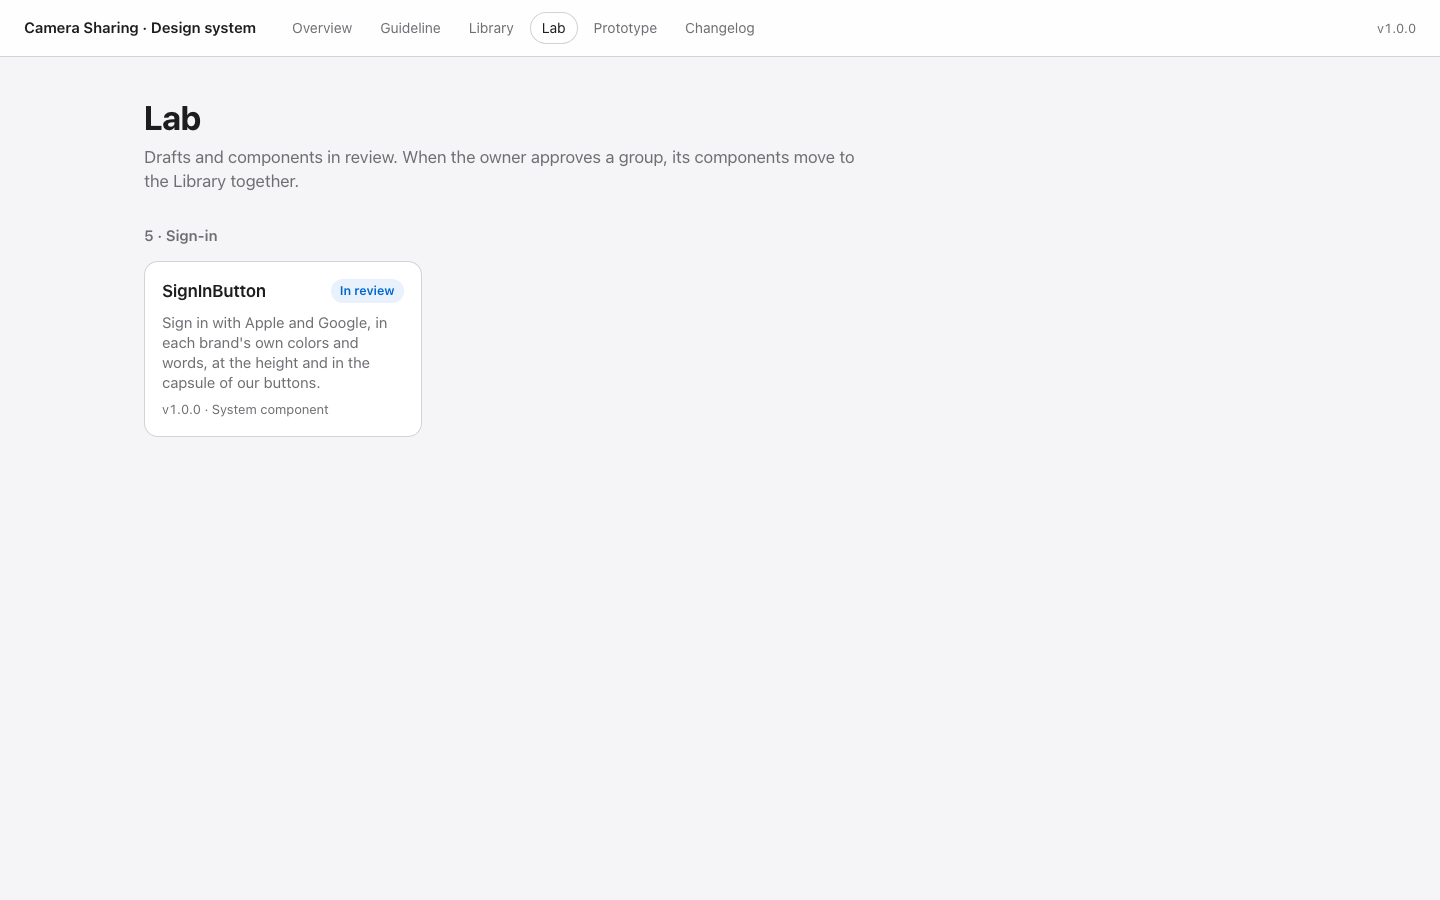
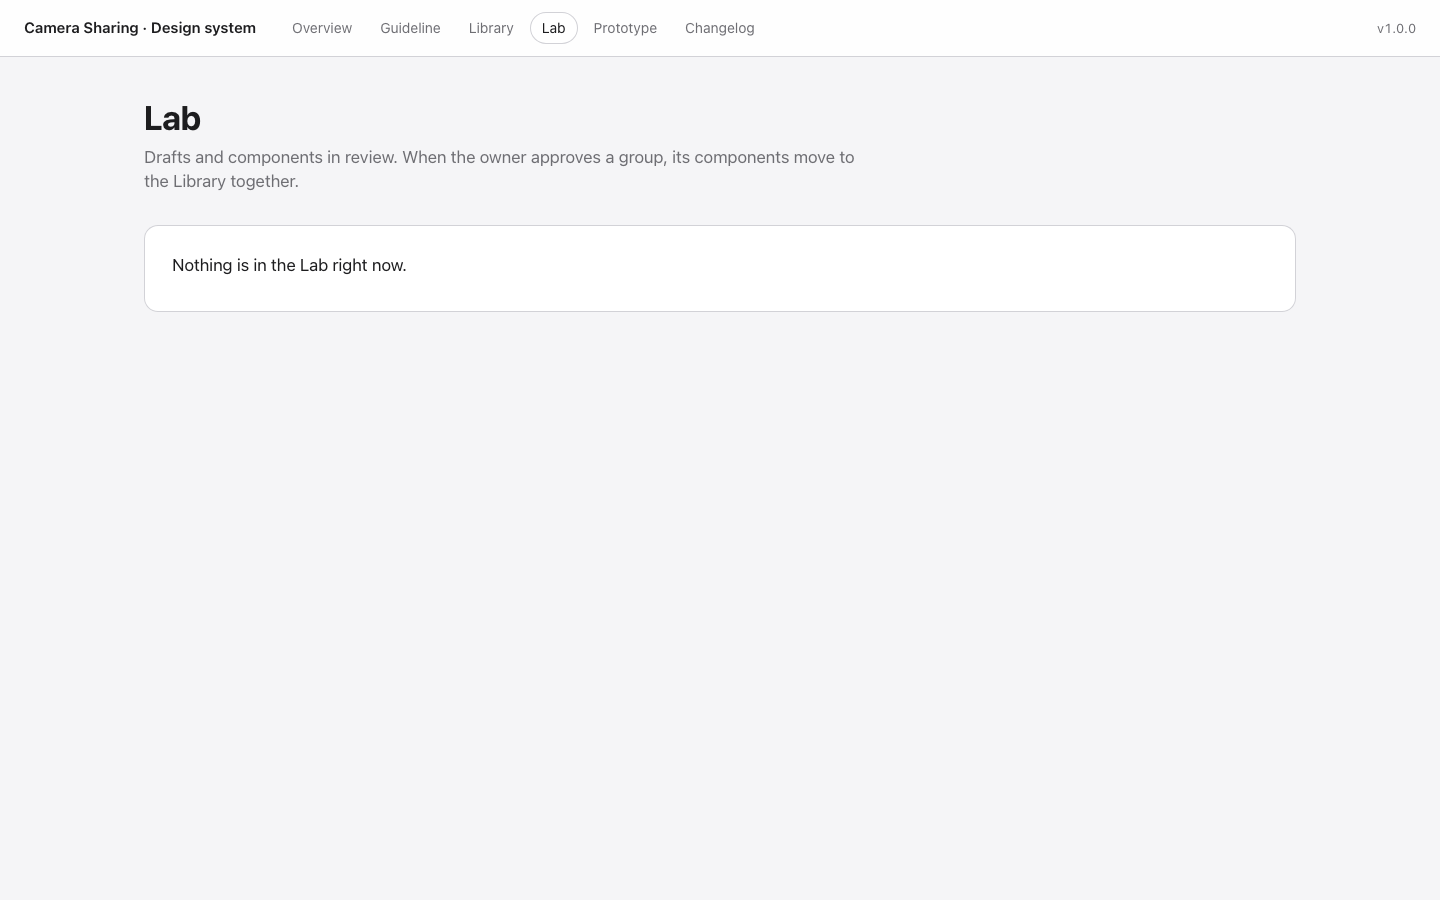
feat(design): promote SignInButton; Welcome uses it
The owner approved group 5 on 30 October 2026 ("Group 5 approved").
SignInButton is final at 1.0.0, and Welcome now signs in with each
brand's own button: Apple first, then Google, on iPhone, and Google
only on Android, dimmed while offline. This closes the design review's
finding that "Continue with Apple" broke Apple's button rules.

The PR screenshots add Welcome on both platforms, and the Lab is empty
again.

Changed region(s): [[0.0938, 0.2489, 0.2812, 0.4667]]

diff --git a/design/tests/unit/screens.test.tsx b/design/tests/unit/screens.test.tsx
@@ -8,6 +8,7 @@ import { reduce, timing } from "@prototype/model/world";
 import { getScenario } from "@prototype/scenarios/catalog";
 import { Home } from "@prototype/screens/Home";
 import { Lock } from "@prototype/screens/Lock";
+import { Welcome } from "@prototype/screens/Welcome";
 import { DeviceViewContext } from "@prototype/shell/deviceView";
 
 const run = (world: World, ...events: WorldEvent[]): World => events.reduce(reduce, world);
@@ -118,5 +119,29 @@ describe("Sarah's Home (design review, 29 October 2026)", () => {
     expect(labels.length).toBeGreaterThan(1);
     expect(new Set(labels).size).toBe(labels.length);
     expect(markup(Home, w, "sarah")).not.toMatch(/aria-label="([^",]+), \1[,"]/);
+  });
+});
+
+describe("Welcome signs in with each brand's own button (design review 7, group 5)", () => {
+  const onIphone: WorldEvent = { type: "setAppearance", device: "sarah", model: "iphone16pro" };
+
+  test("on iPhone, Apple's button comes first, then Google's", () => {
+    const html = markup(Welcome, run(scenario("welcome-ready"), onIphone), "sarah");
+    const apple = html.indexOf("sign-in-button--apple");
+    const google = html.indexOf("sign-in-button--google");
+    expect(apple).toBeGreaterThan(-1);
+    expect(google).toBeGreaterThan(apple);
+    expect(html).not.toContain("button--filled");
+  });
+
+  test("on Android, Google's button only", () => {
+    const html = markup(Welcome, scenario("welcome-ready"), "sarah");
+    expect(html).toContain("sign-in-button--google");
+    expect(html).not.toContain("sign-in-button--apple");
+  });
+
+  test("offline, the buttons are shown but unavailable", () => {
+    const html = markup(Welcome, run(scenario("welcome-offline"), onIphone), "sarah");
+    expect(html.match(/class="sign-in-button[^"]*"[^>]*aria-disabled="true"/g)).toHaveLength(2);
   });
 });

diff --git a/design/src/prototype/screens/Welcome.tsx b/design/src/prototype/screens/Welcome.tsx
@@ -1,6 +1,6 @@
-import { Button } from "@components/Button";
 import { devices } from "@components/DeviceFrame";
 import { InlineMessage } from "@components/InlineMessage";
+import { SignInButton } from "@components/SignInButton";
 import { Text } from "@components/Text";
 import { strings as s } from "@prototype/copy/welcome";
 import type { DeviceId, SignInMethod } from "@prototype/model/types";
@@ -8,11 +8,6 @@ import { useDeviceView } from "@prototype/shell/deviceView";
 import { ScreenBody } from "./parts";
 
 export const screenId = "screens/Welcome";
-
-const labels: Record<Exclude<SignInMethod, "passkey">, string> = {
-  apple: s.apple,
-  google: s.google,
-};
 
 export function Welcome({ id }: { id: DeviceId }) {
   const { device, dispatch } = useDeviceView(id);
@@ -32,16 +27,15 @@ export function Welcome({ id }: { id: DeviceId }) {
     <ScreenBody
       bar={
         <div className="stack">
-          {methods.map((method, index) => (
-            <Button
+          {methods.map((method) => (
+            <SignInButton
               key={method}
-              variant={index === 0 ? "filled" : "tinted"}
+              provider={method}
+              action="continue"
               fullWidth
               disabled={offline}
               onPress={() => dispatch({ type: "signIn", device: id, method })}
-            >
-              {labels[method]}
-            </Button>
+            />
           ))}
         </div>
       }

diff --git a/design/tests/e2e/library.spec.ts b/design/tests/e2e/library.spec.ts
@@ -56,18 +56,19 @@ test("a library component page shows its sections in order", async ({ page }) =>
   await expect(page.getByText("No earlier release yet")).toBeVisible();
 });
 
-test("the sign-in buttons wait in the Lab for review, in both themes and on both platforms", async ({
+test("the sign-in buttons are in the Library, in both themes and on both platforms", async ({
   page,
 }) => {
-  await gotoAndSettle(page, "/lab");
-  await expect(page.getByRole("link", { name: /^SignInButton\s/ })).toContainText("In review");
+  // Group 5 was approved by the owner on 30 October 2026.
+  await gotoAndSettle(page, "/library");
+  await expect(page.getByRole("link", { name: /^SignInButton\s/ })).toContainText("Final");
   for (const [platform, theme] of [
     ["ios", "light"],
     ["ios", "dark"],
     ["android", "light"],
     ["android", "dark"],
   ] as const) {
-    await gotoAndSettle(page, `/lab/sign-in-button?platform=${platform}&theme=${theme}`);
+    await gotoAndSettle(page, `/library/sign-in-button?platform=${platform}&theme=${theme}`);
     await expect(page.getByRole("button", { name: "Continue with Google" }).first()).toBeVisible();
     if (platform === "ios") {
       await expect(page.getByRole("button", { name: "Continue with Apple" }).first()).toBeVisible();

diff --git a/design/src/components/SignInButton/SignInButton.meta.ts b/design/src/components/SignInButton/SignInButton.meta.ts
@@ -5,7 +5,7 @@ export const meta: ComponentMeta = {
   name: "SignInButton",
   group: 5,
   layer: "system",
-  status: "review",
+  status: "final",
   version: "1.0.0",
   summary:
     "Sign in with Apple and Google, in each brand's own colors and words, at the height and in the capsule of our buttons.",
@@ -52,7 +52,7 @@ export const meta: ComponentMeta = {
       version: "1.0.0",
       date: "2026-10-30",
       summary:
-        "First version, for review: Apple's and Google's sign-in buttons in light and dark, on both platforms.",
+        "First version: Apple's and Google's sign-in buttons in light and dark, on both platforms.",
     },
   ],
 };

diff --git a/design/src/prototype/copy/welcome.ts b/design/src/prototype/copy/welcome.ts
@@ -3,8 +3,6 @@
 export const strings = {
   title: "Camera Sharing",
   body: "Borrow a friend’s camera. The photos come to your phone.",
-  apple: "Continue with Apple",
-  google: "Continue with Google",
   failedTitle: "Couldn’t sign in",
   failedBody: "Something went wrong on our side. Try again in a moment.",
   canceledTitle: "Sign-in canceled",

diff --git a/design/src/workspace/approvals.ts b/design/src/workspace/approvals.ts
@@ -17,4 +17,5 @@ export const groupApprovals: GroupApproval[] = [
   { group: 2, date: "2026-10-29", note: "Group 2 approved." },
   { group: 3, date: "2026-10-29", note: "Group 3 approved." },
   { group: 4, date: "2026-10-29", note: "Group 4 approved." },
+  { group: 5, date: "2026-10-30", note: "Group 5 approved" },
 ];

diff --git a/design/CHANGELOG.md b/design/CHANGELOG.md
@@ -6,7 +6,9 @@ Releases of the Camera Sharing design system. The format follows [Keep a Changel
 
 ### Added
 
-- SignInButton 1.0.0 in the Lab for review (group 5, Sign-in): Apple's and Google's sign-in buttons in each brand's colors and words, the same size as our buttons. No logo artwork is stored: Apple's logo comes from Apple's system font, and Google's G is a placeholder. New tokens color.signInAppleFill, color.signInAppleInk, color.signInGoogleFill, color.signInGoogleStroke and color.signInGoogleInk.
+- Group 5 approved by the owner on 30 October 2026; SignInButton is in the Library at 1.0.0, and Welcome uses it.
+- SignInButton 1.0.0: Apple's and Google's sign-in buttons in each brand's colors and words, the same size as our buttons. No logo artwork is stored: Apple's logo comes from Apple's system font, and Google's G is a placeholder.
+- New tokens color.signInAppleFill, color.signInAppleInk, color.signInGoogleFill, color.signInGoogleStroke and color.signInGoogleInk.
 
 ## [1.0.0] - 2026-10-29
 
